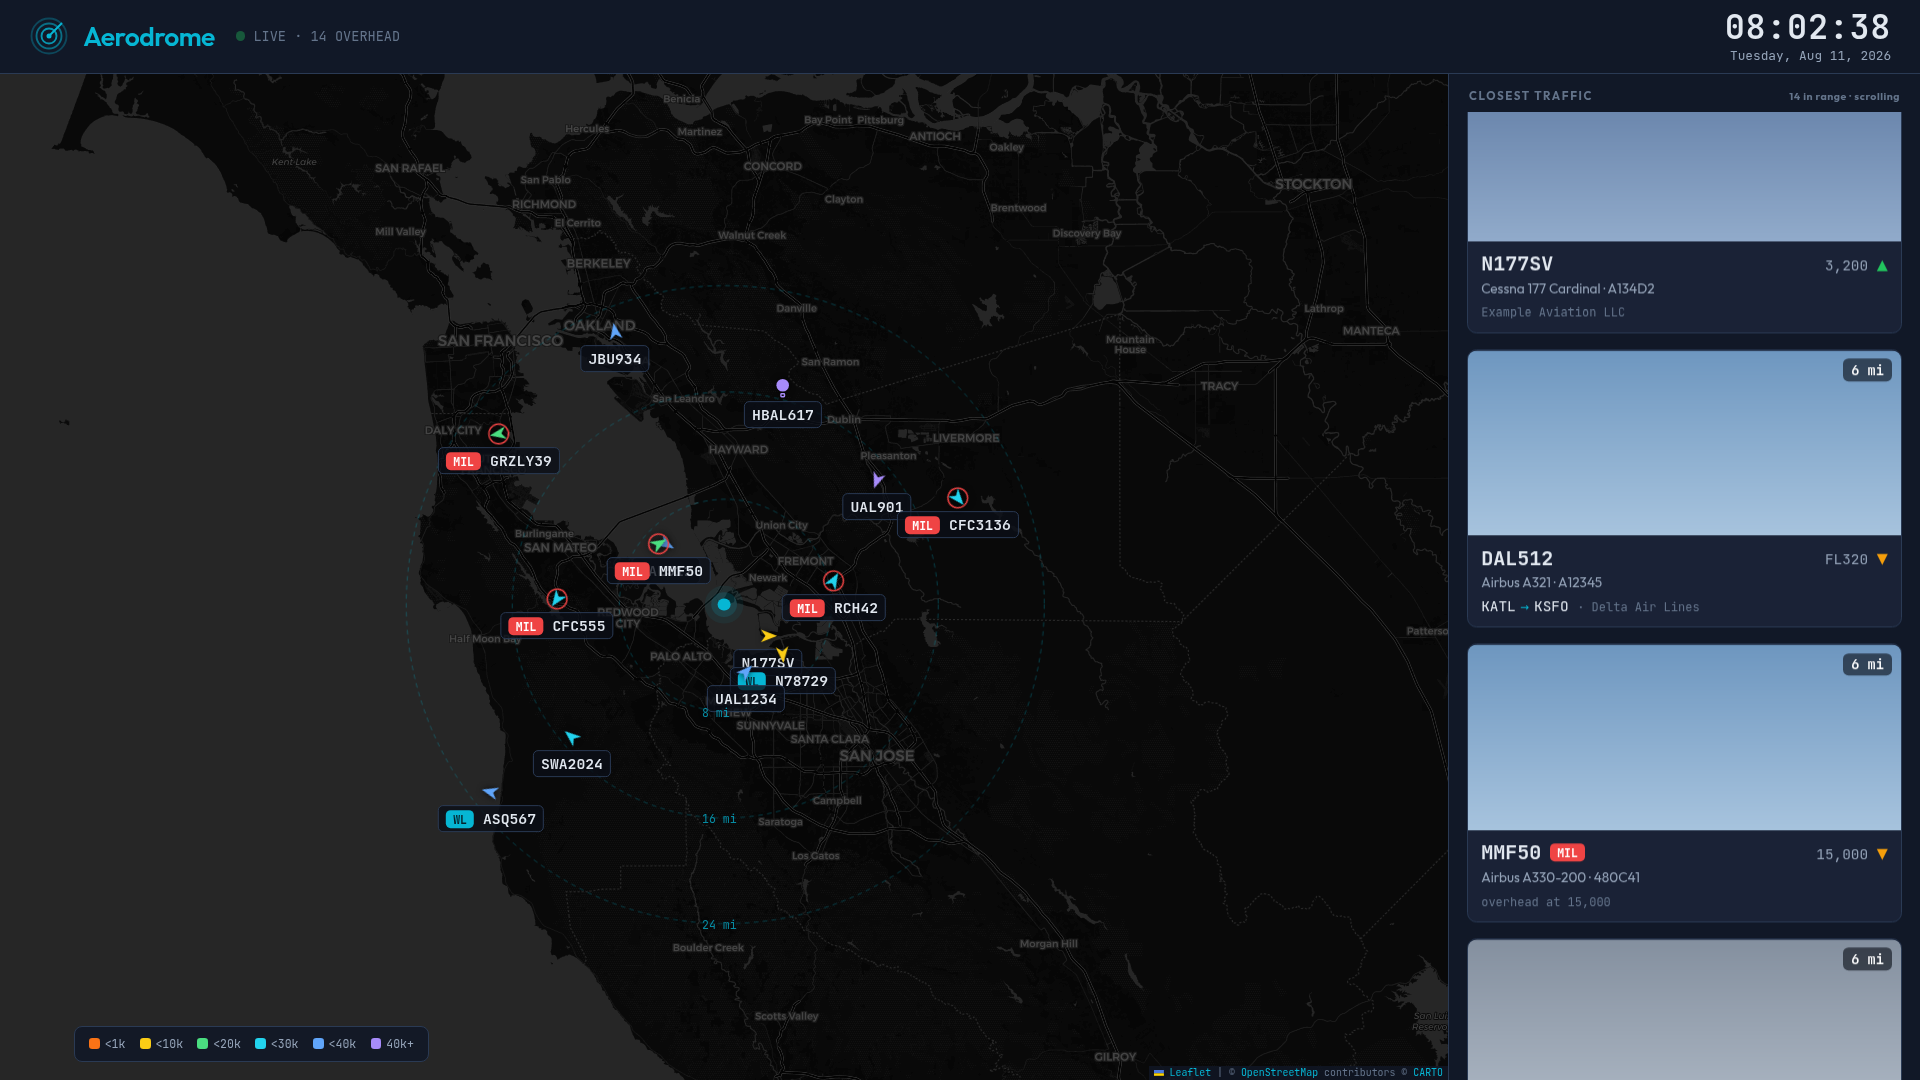
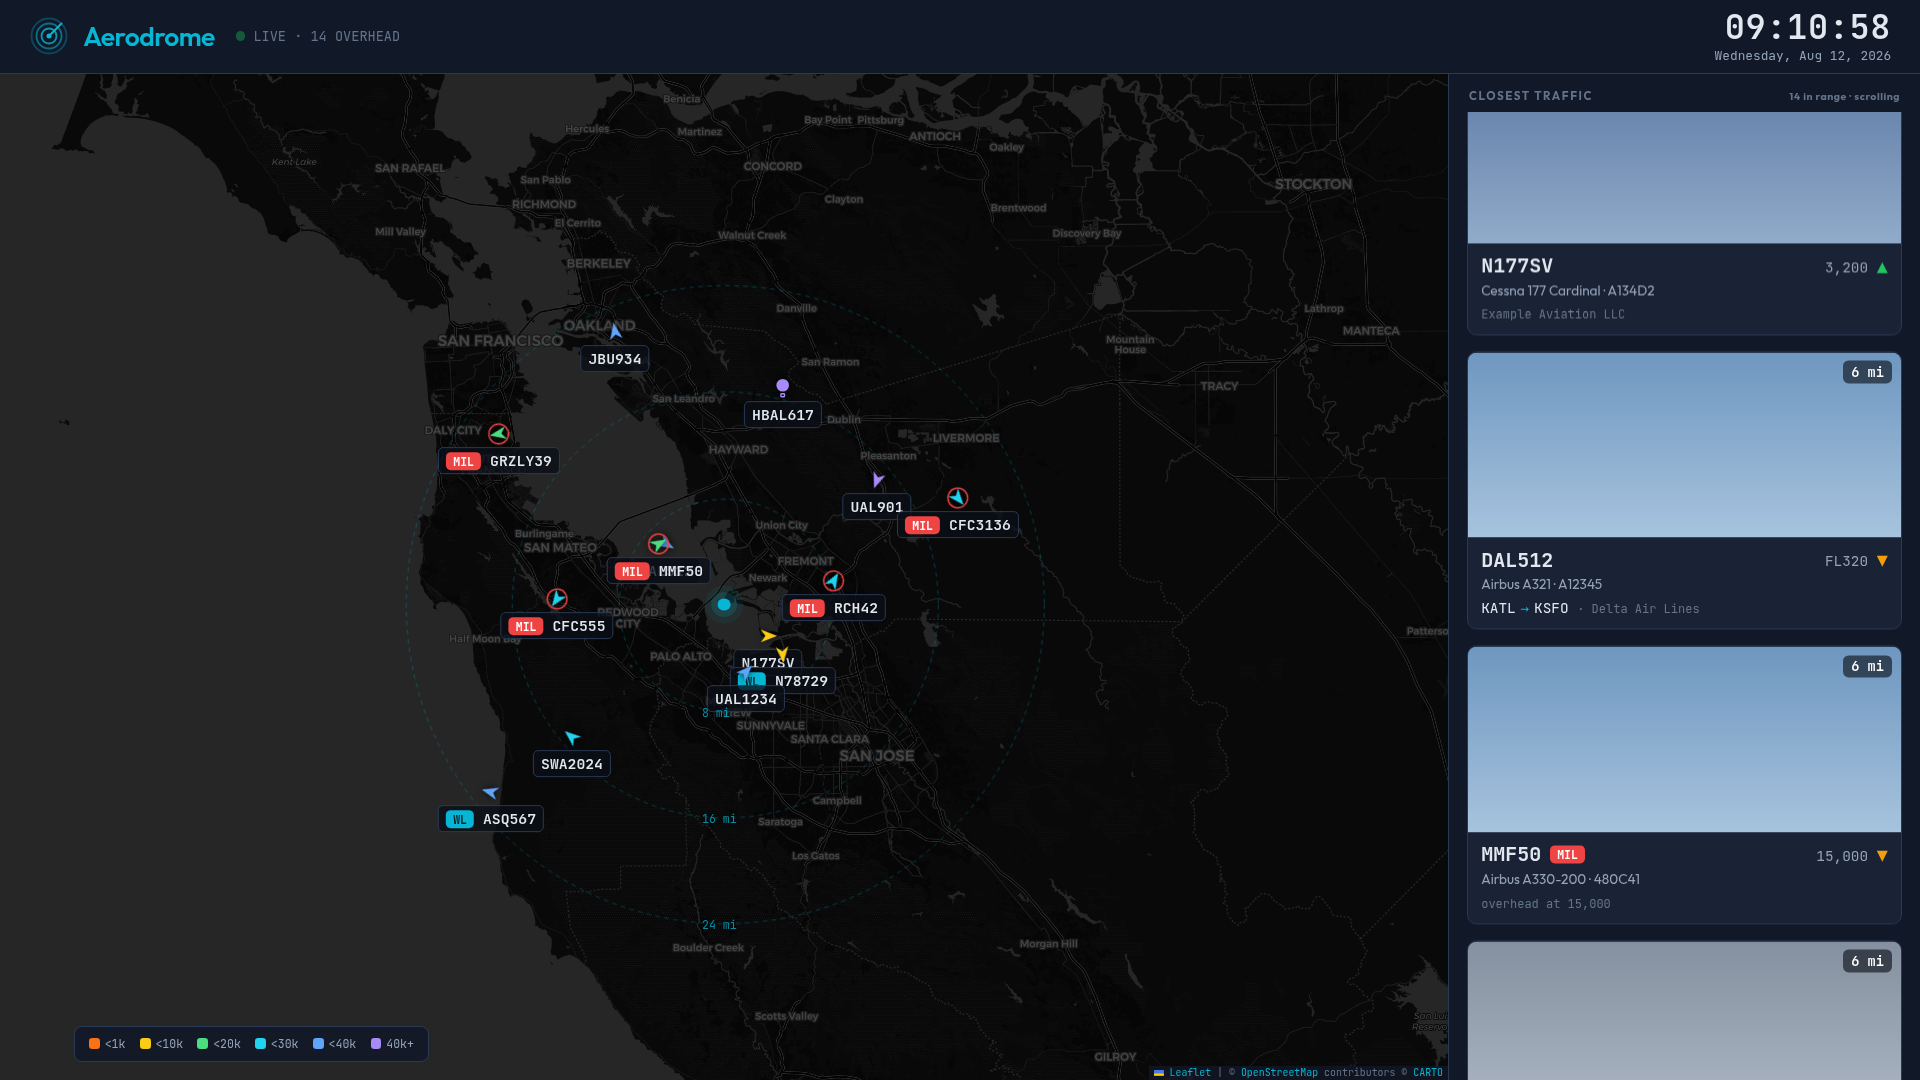
v3.4.120: hybrid rail scroll → compositor-driven WAAPI animation — the rAF loop rewrote cardcol's transform 60×/s (and ran on every layout), pinning a Pi 4 kiosk renderer core per the 2026-08-12 homelab investigation; one element.animate() per loop, onfinish re-snapshots order at the seamless wrap, 

diff --git a/templates/board.html b/templates/board.html
@@ -503,6 +503,7 @@ function _wake(){
 $('gearBtn').addEventListener('click', showPicker);
 function startMode(m){
   closeDetail();   // a details panel (and its trail) never survives a switch
+  if (m !== 'hybrid') _railStop($('cCol'));   // no animation on hidden rails
   MODE = m;
   const el = {radar: 'modeA', board: 'modeB', hybrid: 'modeC'}[m];
   document.querySelectorAll('.mode').forEach(x => x.classList.remove('on'));
@@ -1430,9 +1431,23 @@ function renderB(){
    exist than fit, the column scrolls slowly and loops; the card set is
    snapshotted per loop so nothing reshuffles mid-view (data inside the cards
    still updates every poll). */
+/* v3.4.120: the scroll is ONE compositor-driven Web Animations transform,
+   not a per-frame JS loop. The 2026-08-12 kiosk investigation measured the
+   old requestAnimationFrame version rewriting the column's inline transform
+   60×/s (and running even on non-hybrid layouts), pinning a Pi 4 renderer
+   core continuously; a WAAPI transform animation runs off the main thread
+   and costs nothing per frame. One animation = one full loop; onfinish
+   (once per few minutes) re-snapshots the card order and restarts — card
+   heights are fixed (.pc .ph is a fixed-height box), so the loop height
+   only changes when the card COUNT changes. */
 const RAIL_N = 15, RAIL_PX_S = 12;
 let railOrder = [];        // icaos in card order, held stable for one loop
-let railY = 0, railLoopH = 0, railScrolling = false, _railTs = null;
+let railLoopH = 0, railScrolling = false, railAnim = null;
+
+function _railStop(col){
+  if (railAnim) { railAnim.cancel(); railAnim = null; }
+  if (col) col.style.transform = '';
+}
 
 function _railCard(a){
   const ph = photoFor(a.icao);
@@ -1465,8 +1480,8 @@ function renderRail(){
     .sort((x, y) => x._dist - y._dist);
   if (!list.length) {
     col.innerHTML = '<div class="rail-empty">listening — no aircraft in range</div>';
-    col.style.transform = 'translateY(0)';
-    railOrder = []; railY = 0; railScrolling = false;
+    _railStop(col);
+    railOrder = []; railScrolling = false; railLoopH = 0;
     $('cRailNote').textContent = '';
     return;
   }
@@ -1480,36 +1495,40 @@ function renderRail(){
   const cards = railOrder.map(ic => _railCard(byIcao.get(ic))).join('');
   // Render doubled, measure one set via the duplicate's offsetTop, then keep
   // the duplicate only if the column actually overflows (seamless loop).
+  // The innerHTML rebuild does not disturb a running animation — the
+  // animation lives on the column element, not its children.
   col.innerHTML = cards + cards;
   const half = railOrder.length;
-  railLoopH = col.children.length > half ? col.children[half].offsetTop : 0;
-  railScrolling = railLoopH > wrap.clientHeight + 4;
+  const loopH = col.children.length > half ? col.children[half].offsetTop : 0;
+  railScrolling = loopH > wrap.clientHeight + 4;
   if (!railScrolling) {
     col.innerHTML = cards;
-    railY = 0;
+    _railStop(col);
+  } else if (!railAnim || Math.abs(loopH - railLoopH) > 2) {
+    // (Re)start only when the loop height actually changed (= the card count
+    // changed); an ordinary data refresh leaves the animation untouched.
+    // Carry the current progress fraction over so a restart doesn't jump.
+    const carry = (railAnim && railAnim.currentTime != null)
+      ? (railAnim.currentTime % railAnim._dur) / railAnim._dur : 0;
+    if (railAnim) railAnim.cancel();
+    const dur = loopH / RAIL_PX_S * 1000;
+    railAnim = col.animate(
+      [{transform: 'translateY(0)'}, {transform: `translateY(-${loopH}px)`}],
+      {duration: dur, iterations: 1, easing: 'linear'});
+    railAnim._dur = dur;
+    railAnim.currentTime = carry * dur;
+    railAnim.onfinish = () => {
+      // End of one full loop: -loopH lines up with 0 on the doubled list,
+      // so re-snapshotting + restarting here is visually seamless.
+      railAnim = null;
+      railOrder = [];
+      renderRail();
+    };
   }
-  col.style.transform = `translateY(${-railY}px)`;
+  railLoopH = loopH;
   $('cRailNote').textContent =
     `${list.length} in range${railScrolling ? ' · scrolling' : ''}`;
 }
-function _railTick(ts){
-  if (MODE === 'hybrid' && railScrolling && railLoopH > 0) {
-    if (_railTs != null) {
-      railY += (ts - _railTs) / 1000 * RAIL_PX_S;
-      if (railY >= railLoopH) {
-        railY -= railLoopH;
-        railOrder = [];        // loop wrapped → next renderRail takes a fresh snapshot
-        renderRail();
-      } else {
-        const col = $('cCol');
-        if (col) col.style.transform = `translateY(${-railY}px)`;
-      }
-    }
-  }
-  _railTs = ts;
-  requestAnimationFrame(_railTick);
-}
-requestAnimationFrame(_railTick);
 
 function renderC(){
   $('cCount').textContent = LIVE.length;

diff --git a/templates/docs.html b/templates/docs.html
@@ -19,7 +19,7 @@
 })();
 </script>
     <!-- theme:inline-fouc-end -->
-<!-- Version: 3.4.119 -->
+<!-- Version: 3.4.120 -->
 <meta charset="UTF-8">
 <meta name="viewport" content="width=device-width, initial-scale=1.0">
 <title>Aerodrome Documentation</title>

diff --git a/templates/about.html b/templates/about.html
@@ -19,7 +19,7 @@
 })();
 </script>
     <!-- theme:inline-fouc-end -->
-<!-- Version: 3.4.119 -->
+<!-- Version: 3.4.120 -->
 <meta charset="UTF-8">
 <meta name="viewport" content="width=device-width, initial-scale=1.0">
 <title>About — Aerodrome</title>

diff --git a/templates/diagnostics-slow-queries.html b/templates/diagnostics-slow-queries.html
@@ -1,4 +1,4 @@
-<!-- Version: 3.4.119 -->
+<!-- Version: 3.4.120 -->
 <!DOCTYPE html>
 <!-- theme:inline-fouc-start -->
 <script>(function(){var t=localStorage.getItem('theme');if(t==='light')document.documentElement.classList.add('light');})();</script>

diff --git a/templates/logs.html b/templates/logs.html
@@ -19,7 +19,7 @@
 })();
 </script>
     <!-- theme:inline-fouc-end -->
-<!-- Version: 3.4.119 -->
+<!-- Version: 3.4.120 -->
 <meta charset="UTF-8">
 <meta name="viewport" content="width=device-width, initial-scale=1.0">
 <title>Aerodrome Logs</title>

diff --git a/templates/aircraft.html b/templates/aircraft.html
@@ -1,4 +1,4 @@
-<!-- Version: 3.4.119 -->
+<!-- Version: 3.4.120 -->
 <!DOCTYPE html>
 <html lang="en">
 <head>

diff --git a/templates/config.html b/templates/config.html
@@ -1,4 +1,4 @@
-<!-- Version: 3.4.119 -->
+<!-- Version: 3.4.120 -->
 <!DOCTYPE html>
 <html lang="en">
 <head>

diff --git a/templates/diagnostics-watchlist.html b/templates/diagnostics-watchlist.html
@@ -1,4 +1,4 @@
-<!-- Version: 3.4.119 -->
+<!-- Version: 3.4.120 -->
 <!DOCTYPE html>
 <html lang="en">
 <head>

diff --git a/templates/diagnostics.html b/templates/diagnostics.html
@@ -1,4 +1,4 @@
-<!-- Version: 3.4.119 -->
+<!-- Version: 3.4.120 -->
 <!DOCTYPE html>
 <html lang="en">
 <head>

diff --git a/templates/index.html b/templates/index.html
@@ -1,4 +1,4 @@
-<!-- Version: 3.4.119 -->
+<!-- Version: 3.4.120 -->
 <!DOCTYPE html>
 <html lang="en">
 <head>

diff --git a/templates/performance.html b/templates/performance.html
@@ -1,4 +1,4 @@
-<!-- Version: 3.4.119 -->
+<!-- Version: 3.4.120 -->
 <!DOCTYPE html>
 <html lang="en">
 <head>

diff --git a/templates/status.html b/templates/status.html
@@ -1,4 +1,4 @@
-<!-- Version: 3.4.119 -->
+<!-- Version: 3.4.120 -->
 <!DOCTYPE html>
 <html lang="en">
 <head>
